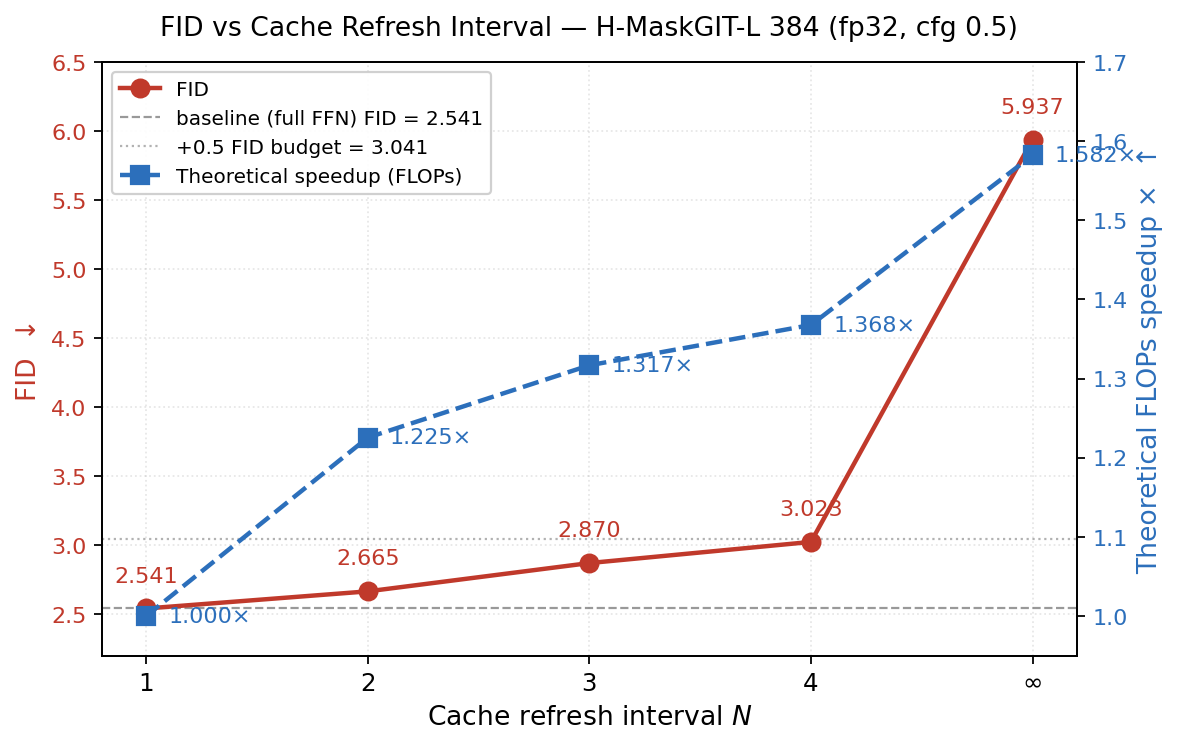
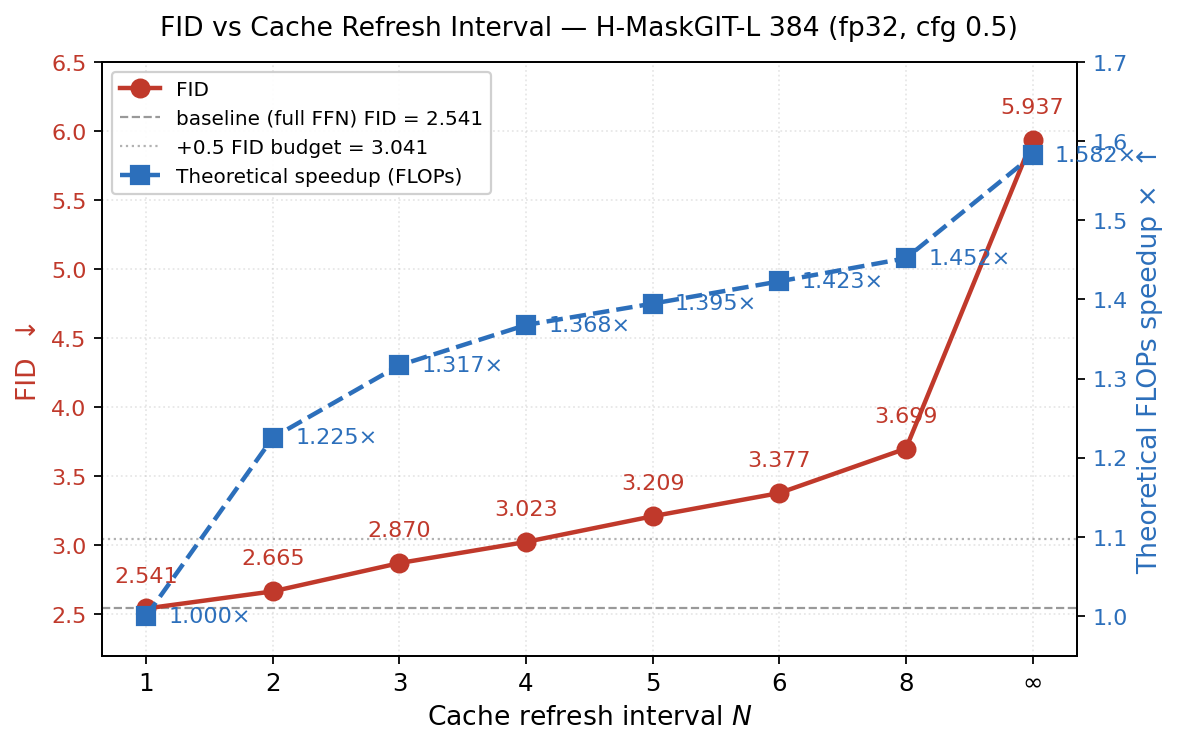
补充了更多的refresh_step

diff --git a/plot_sweep.py b/plot_sweep.py
@@ -11,9 +11,12 @@ import matplotlib.pyplot as plt
 # --- FID data (from results/halton_large384_partialupdate_sweep.txt) ---
 # N=1 is included as the left-anchor point: every step is a refresh, so it is
 # numerically equivalent to the full-update baseline (FID 2.541, speedup 1.000×).
-N_LABELS = ['1', '2', '3', '4', '∞']
-X        = [0, 1, 2, 3, 4]              # equal spacing on x-axis
-FID      = [2.541, 2.665, 2.870, 3.023, 5.937]
+# N5/N6/N8 fill the previously unsampled N4->∞ gap (values from
+# results/halton_large384_partialupdate_sweep.txt). ∞ uses the txt
+# partial_norefresh value 6.0475 for consistency with the other points.
+N_LABELS = ['1', '2', '3', '4', '5', '6', '8', '∞']
+X        = list(range(8))               # equal spacing on x-axis
+FID      = [2.541, 2.665, 2.870, 3.023, 3.209, 3.377, 3.699, 5.937]
 
 # --- theoretical FLOPs / speedup model ---
 # Per-block FLOP breakdown (Large model, d=1024, seq=576):
@@ -52,16 +55,11 @@ def theoretical_speedup(refresh_n):
     return baseline_cost / cost
 
 
-SPEEDUP = [
-    theoretical_speedup(1),    # baseline equivalent
-    theoretical_speedup(2),
-    theoretical_speedup(3),
-    theoretical_speedup(4),
-    theoretical_speedup(0),    # ∞
-]
-print(f'theoretical speedups: '
-      f'N=1 {SPEEDUP[0]:.3f}×  N=2 {SPEEDUP[1]:.3f}×  '
-      f'N=3 {SPEEDUP[2]:.3f}×  N=4 {SPEEDUP[3]:.3f}×  N=∞ {SPEEDUP[4]:.3f}×')
+# refresh interval per point: N=1..6, 8, then 0 (=∞, never refresh)
+REFRESH_N = [1, 2, 3, 4, 5, 6, 8, 0]
+SPEEDUP   = [theoretical_speedup(n) for n in REFRESH_N]
+for lbl, spd in zip(N_LABELS, SPEEDUP):
+    print(f'  N={lbl:>2}  speedup {spd:.3f}×')
 
 BASELINE_FID     = 2.541
 BASELINE_LABEL   = f'baseline (full FFN) FID = {BASELINE_FID:.3f}'
